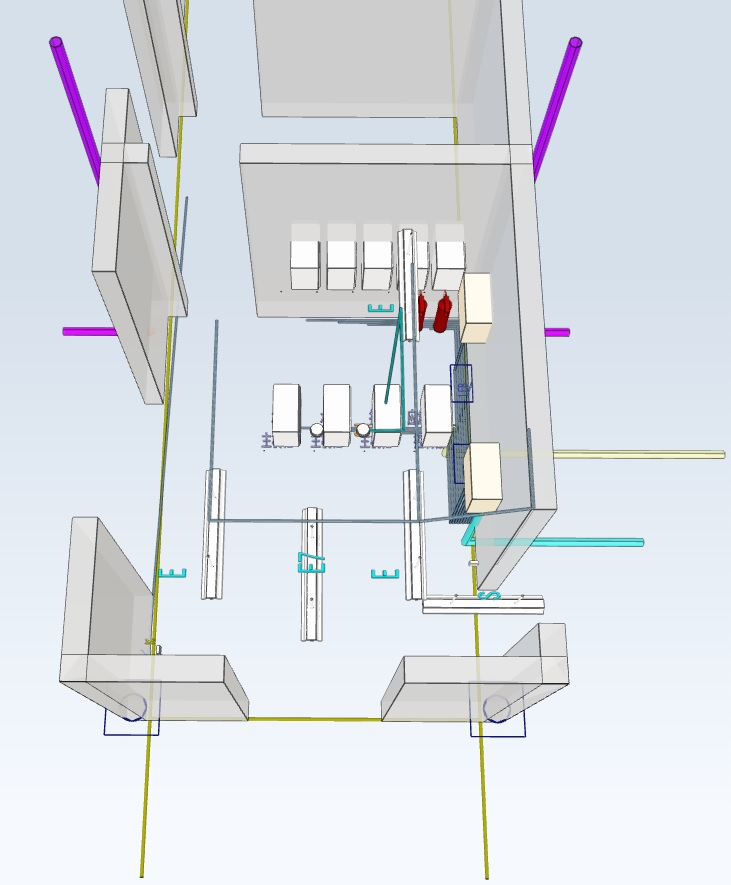
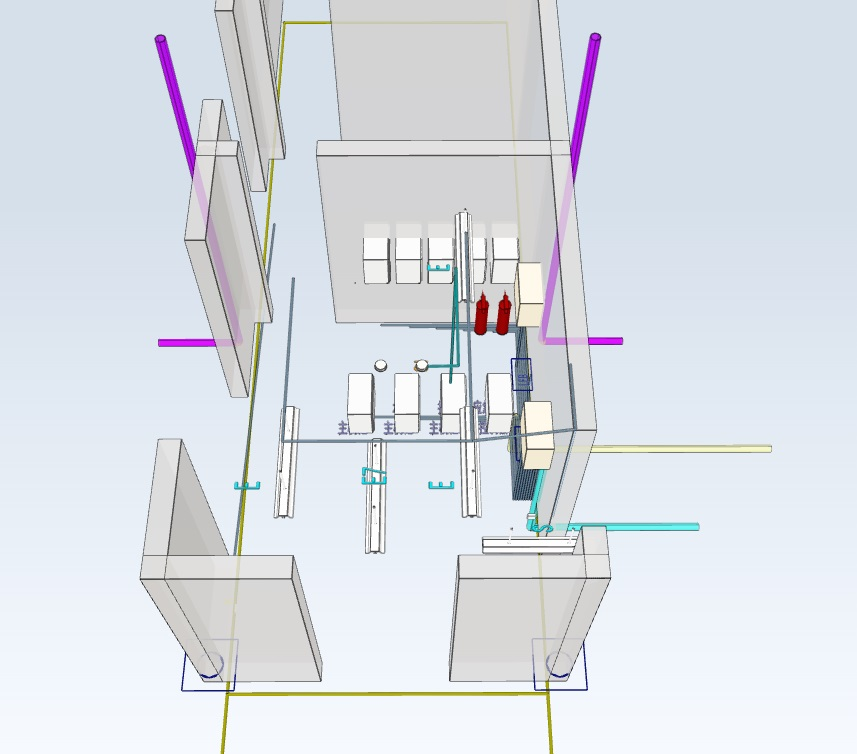
Signed-off-by: jyhcq <jy_hcq@163.com>

Changed region(s): [[0.0602, 0.0, 0.9932, 1.0]]

diff --git a/resume.html b/resume.html
@@ -1,0 +1,198 @@
+<!DOCTYPE html>
+<html lang="zh-CN">
+<head>
+    <meta charset="UTF-8">
+    <meta name="viewport" content="width=device-width, initial-scale=1.0">
+    <title>黄陈强 - 个人简历</title>
+    <script src="https://cdn.tailwindcss.com"></script>
+    <style>
+        @import url('https://fonts.googleapis.com/css2?family=Noto+Sans+SC:wght@300;400;500;700&display=swap');
+        body {
+            font-family: 'Noto Sans SC', sans-serif;
+            background-color: #f3f4f6;
+            color: #374151;
+        }
+        .page {
+            width: 210mm;
+            min-height: 297mm;
+            padding: 20mm;
+            margin: 10mm auto;
+            background: white;
+            box-shadow: 0 0 10px rgba(0,0,0,0.1);
+            display: flex;
+        }
+        @media print {
+            body { background: white; }
+            .page { margin: 0; box-shadow: none; }
+        }
+        .left-col {
+            width: 35%;
+            border-right: 1px solid #e5e7eb;
+            padding-right: 1.5rem;
+        }
+        .right-col {
+            width: 65%;
+            padding-left: 1.5rem;
+        }
+        .section-title {
+            border-bottom: 2px solid #1e40af;
+            padding-bottom: 0.25rem;
+            margin-bottom: 1rem;
+            color: #1e40af;
+            font-weight: bold;
+            display: flex;
+            align-items: center;
+        }
+        .tag {
+            background-color: #eff6ff;
+            color: #1e40af;
+            padding: 0.2rem 0.6rem;
+            border-radius: 4px;
+            font-size: 0.8rem;
+            margin-right: 0.5rem;
+            margin-bottom: 0.5rem;
+            display: inline-block;
+        }
+    </style>
+</head>
+<body>
+
+<div class="page">
+    <!-- 左侧栏 -->
+    <div class="left-col">
+        <div class="text-center mb-8">
+            <div class="w-32 h-32 bg-gray-200 rounded-full mx-auto mb-4 overflow-hidden flex items-center justify-center border-4 border-blue-50">
+                <!-- 占位头像，可自行替换 -->
+                <svg class="w-20 h-20 text-gray-400" fill="currentColor" viewBox="0 0 20 20">
+                    <path fill-rule="evenodd" d="M10 9a3 3 0 100-6 3 3 0 000 6zm-7 9a7 7 0 1114 0H3z" clip-rule="evenodd"></path>
+                </svg>
+            </div>
+            <h1 class="text-2xl font-bold text-gray-800">黄陈强</h1>
+            <p class="text-blue-600 font-medium mt-1">建设工程项目经理</p>
+        </div>
+
+        <div class="mb-8">
+            <h2 class="section-title text-sm uppercase tracking-wider">联系方式</h2>
+            <ul class="text-sm space-y-3">
+                <li class="flex items-center">
+                    <span class="w-5 text-gray-400">📞</span>
+                    <span>177-1530-1131</span>
+                </li>
+                <li class="flex items-center">
+                    <span class="w-5 text-gray-400">💬</span>
+                    <span>ijiangyin (微信)</span>
+                </li>
+                <li class="flex items-center">
+                    <span class="w-5 text-gray-400">📍</span>
+                    <span>江苏 · 无锡/江阴</span>
+                </li>
+            </ul>
+        </div>
+
+        <div class="mb-8">
+            <h2 class="section-title text-sm uppercase tracking-wider">基本信息</h2>
+            <ul class="text-sm space-y-2 text-gray-600">
+                <li><strong>出生年份：</strong> 1977年</li>
+                <li><strong>学历背景：</strong> 东南大学 本科</li>
+                <li><strong>从业经验：</strong> 10年以上</li>
+            </ul>
+        </div>
+
+        <div class="mb-8">
+            <h2 class="section-title text-sm uppercase tracking-wider">专业标签</h2>
+            <div class="flex flex-wrap">
+                <span class="tag">经验丰富</span>
+                <span class="tag">诚实守信</span>
+                <span class="tag">上进心强</span>
+                <span class="tag">知识丰富</span>
+                <span class="tag">学习力极强</span>
+            </div>
+        </div>
+
+        <div>
+            <h2 class="section-title text-sm uppercase tracking-wider">软件技能</h2>
+            <ul class="text-xs space-y-2 text-gray-600">
+                <li>● 广联达 (GQI, GMA, GCCP6)</li>
+                <li>● Revit (BIM建模)</li>
+                <li>● AutoCAD (工程绘图)</li>
+                <li>● 新点计价软件</li>
+            </ul>
+        </div>
+    </div>
+
+    <!-- 右侧栏 -->
+    <div class="right-col">
+        <!-- 个人简介 -->
+        <section class="mb-8">
+            <h2 class="section-title">
+                <span class="mr-2">👤</span> 个人简介
+            </h2>
+            <p class="text-sm leading-relaxed text-gray-600">
+                具备深厚的工程技术背景，能力强，操守好，待人真诚，吃苦耐劳。持有多项建设工程行业国家级注册执业证书，具备丰富的现场施工管理、成本控制及监理经验，能够独立负责大型工程项目的全过程管理。
+            </p>
+        </section>
+
+        <!-- 职业资格 - 核心价值 -->
+        <section class="mb-8">
+            <h2 class="section-title">
+                <span class="mr-2">📜</span> 核心职业资格 (多证合一)
+            </h2>
+            <div class="grid grid-cols-1 gap-3">
+                <div class="flex justify-between items-center p-3 bg-blue-50 rounded-0g border-l-0 border-blue-600">
+                    <span class="font-bold text-gray-800">一级造价工程师</span>
+                    <span class="text-sm text-gray-500 italic">2020.10</span>
+                </div>
+                <div class="flex justify-between items-center p-3 bg-blue-50 rounded-0g border-l-0 border-blue-600">
+                    <span class="font-bold text-gray-800">一级监理工程师</span>
+                    <span class="text-sm text-gray-500 italic">2020.09</span>
+                </div>
+                <div class="flex justify-between items-center p-3 bg-blue-50 rounded-0g border-l-0 border-blue-600">
+                    <span class="font-bold text-gray-800">一级消防工程师</span>
+                    <span class="text-sm text-gray-500 italic">2018.11</span>
+                </div>
+                <div class="flex justify-between items-center p-3 bg-blue-50 rounded-0g border-l-0 border-blue-600">
+                    <span class="font-bold text-gray-800">一级建造师 (机电工程)</span>
+                    <span class="text-sm text-gray-500 italic">2015.10</span>
+                </div>
+                <div class="flex justify-between items-center p-3 bg-gray-50 rounded-0g border-l-0 border-gray-400">
+                    <span class="font-bold text-gray-800">二级建造师 (市政公用)</span>
+                    <span class="text-sm text-gray-500 italic">2013.05</span>
+                </div>
+                <div class="flex justify-between items-center p-3 bg-gray-50 rounded-0g border-l-0 border-gray-400">
+                    <span class="font-bold text-gray-800">中级专业技术职称</span>
+                    <span class="text-sm text-gray-500 italic">2005.11</span>
+                </div>
+            </div>
+        </section>
+
+        <!-- 期望职位 -->
+        <section class="mb-8">
+            <h2 class="section-title">
+                <span class="mr-2">🎯</span> 期望职位
+            </h2>
+            <div class="flex flex-wrap gap-2 text-sm">
+                <span class="border border-gray-300 px-3 py-1 rounded-full text-gray-600">项目经理</span>
+                <span class="border border-gray-300 px-3 py-1 rounded-full text-gray-600">造价师/预算师</span>
+                <span class="border border-gray-300 px-3 py-1 rounded-full text-gray-600">工程监理</span>
+                <span class="border border-gray-300 px-3 py-1 rounded-full text-gray-600">安全消防管理</span>
+            </div>
+        </section>
+
+        <!-- 教育经历 -->
+        <section>
+            <h2 class="section-title">
+                <span class="mr-2">🎓</span> 教育经历
+            </h2>
+            <div class="flex justify-between items-start">
+                <div>
+                    <h3 class="font-bold text-gray-800">东南大学</h3>
+                    <p class="text-sm text-gray-600">自动化专业 · 工学学士</p>
+                </div>
+                <span class="text-sm text-gray-500">2006.07 - 2009.07</span>
+            </div>
+        </section>
+    </div>
+</div>
+
+</body>
+</html>
